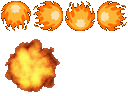
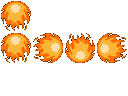
Portes, Arc à flèche

diff --git a/src/model/gameElements/Player.java b/src/model/gameElements/Player.java
@@ -1,5 +1,6 @@
 package model.gameElements;
 
+import java.awt.Point;
 import java.awt.Rectangle;
 import java.util.ArrayList;
 
@@ -46,7 +47,10 @@ public class Player extends Actor implements Runnable{
 	
 	public void move(){
 		super.move();
-		Tile currentTile=getGame().getCurrentMap().getTileAt((int)((getX()+getHitbox().getCenterX())/20), (int)((getY() + getHitbox().getMaxY()))/20);
+		Point footPosition = getFootPosition();
+		int x = (int)Math.floor(footPosition.getX()/20);
+		int y = (int)Math.floor(footPosition.getY()/20);
+		Tile currentTile=getGame().getCurrentMap().getTileAt(x,y);
 		if (currentTile.getIsPoisonous()){
 			currentTile.envenom();
 		}
@@ -137,11 +141,6 @@ public class Player extends Actor implements Runnable{
 	}
 
 	public void equipHandWeapon(HandWeapon weapon) {
-		/*
-		 * on consid�re que le joueur a une valeur de degats de base et que le
-		 * fait d'equiper une arme augmente simplement la valeur de degats du
-		 * joueur. MAIS IL FAUDRA TENIR COMPTE DES TYPES D'ARMES.
-		 */
 		this.handWeapon = weapon;
 		
 		setDamage(damage + weapon.getDamage());
@@ -178,15 +177,7 @@ public class Player extends Actor implements Runnable{
 
 	public void die() {
 		setHealth(0);
-		//Tomb tomb = new Tomb("Tombe de " + name, position, inventory, experience);
-		// resetPosition(debut du niveau)
 	}
-//
-//	public void collect(CollectableObject object) {
-//		inventory.setInInventory(object);
-//	}
-
-	// public void open(){}
 	
 	public void drinkPotion(Potion potion) {
 		if (potion instanceof HealthPotion) {
@@ -210,12 +201,39 @@ public class Player extends Actor implements Runnable{
 		}
 	}
 	
+	public void tryInteraction() {
+		collect();
+		openDoors();
+	}
+	
 	public void collect(){
 		CollectableObject res=getGame().getCurrentMap().detectAnObject(this.getX(),this.getY(), this.getHitbox());
 		if (res!=null && inventory.isFull()==false){
 			inventory.setInInventory(res);
 			getGame().getCurrentMap().removeCollectableObject(res);
 		}
+	}
+	
+	public void openDoors() {
+		Tile facingTile = null;
+		Tile currentTile;
+		Point footPosition = getFootPosition();
+		int x = (int)Math.floor(footPosition.getX()/20);
+		int y = (int)Math.floor(footPosition.getY()/20);
+		
+		currentTile = getGame().getCurrentMap().getTileAt(x, y);		
+		if(getOrientation()=="up") {
+			facingTile = getGame().getCurrentMap().getTileAt(x, y-1);
+		} else if(getOrientation()=="down") {
+			facingTile = getGame().getCurrentMap().getTileAt(x, y+1);
+		} else if(getOrientation()=="left") {
+			facingTile = getGame().getCurrentMap().getTileAt(x-1, y);
+		} else if (getOrientation()=="right") {
+			facingTile = getGame().getCurrentMap().getTileAt(x+1, y);
+		}
+		
+		if(facingTile!=null){facingTile.doorOpen();};
+		currentTile.doorOpen();
 	}
 
 	@Override

diff --git a/src/model/map/RandomMap.java b/src/model/map/RandomMap.java
@@ -7,7 +7,9 @@ import java.util.Random;
 
 import model.Game;
 import model.gameElements.Axe;
+import model.gameElements.Bow;
 import model.gameElements.Monster;
+import model.graphicElements.Door;
 import model.graphicElements.Floor;
 import model.graphicElements.Tile;
 import model.graphicElements.TileLibrary;
@@ -31,10 +33,11 @@ public class RandomMap extends Map {
 		
 		generateMaze(0, rooms, holes);
 		renderMaze(rooms, holes);
-		setTileAt(5,5, new Tile(TileLibrary.POISON_TRAP, "poisonous tile", game));
+		initDoors();
+		initTraps();
 		System.out.println("new Level");
 	}
-	
+
 	public void initActorsAndObjects() {
 		initMonsters();
 		initGameObjects();
@@ -60,8 +63,11 @@ public class RandomMap extends Map {
 	public void initGameObjects(){
 		Axe axe= new Axe("hache", 180, 200, getGame(), getGame().getPlayer());
 		addCollectableObject(axe);
-		axe.setX(180);
-		axe.setY(200);
+		
+		Bow bow = new Bow(getGame(),getGame().getPlayer());
+		bow.setX(300);
+		bow.setY(300);
+		addCollectableObject(bow);
 	}
 	
 
@@ -167,6 +173,33 @@ public class RandomMap extends Map {
 				}
 			}
 		}
-	}	
+	}
+	
+	private void initDoors() {
+		Door door1 = new Door(getGame());
+		door1.doorOpen();
+		Door door2 = new Door(getGame());
+		setTileAt(2,0,door1);
+		setTileAt(getLevelWidth()-3, getLevelHeight()-1, door2);
+		setTileAt(1,0,new Wall(TileLibrary.WALL_H_RIGHT, getGame()));
+		setTileAt(3,0,new Wall(TileLibrary.WALL_H_LEFT, getGame()));
+		setTileAt(getLevelWidth()-4, getLevelHeight()-1,new Wall(TileLibrary.WALL_H_RIGHT, getGame()));
+		setTileAt(getLevelWidth()-2, getLevelHeight()-1,new Wall(TileLibrary.WALL_H_LEFT, getGame()));
+	}
+	
+	private void initTraps() {
+		Random rnd = new Random();
+		for(int i=0;i<6;i++) {
+			int x = rnd.nextInt(getLevelWidth()-2)+1;
+			int y = rnd.nextInt(getLevelHeight()-2)+1;
+			for(int j=0;j<6;j++) {
+				int nx = x+rnd.nextInt(5)-2;
+				int ny = y+rnd.nextInt(5)-2;			
+				if(getTileAt(nx,ny).getType()=="floor") {;
+					setTileAt(nx,ny,new Tile(TileLibrary.POISON_TRAP, "poisonous tile", getGame()));
+				}
+			}
+		}
+	}
 
 }

diff --git a/src/view/level/LevelPanel.java b/src/view/level/LevelPanel.java
@@ -145,13 +145,13 @@ public class LevelPanel extends JPanel {
 			if(pro.isTravelling()) {
 				String d = pro.getDirection();
 				if(d=="up") {
-					g.drawImage(pro.getImage(), pro.getX(), pro.getY(), pro.getX()+32,pro.getY()+32,0,0,31,31,null);
+					g.drawImage(pro.getImage(), pro.getX(), pro.getY(), pro.getX()+32,pro.getY()+32,0,32,31,63,null);
 				} else if (d=="right") {
-					g.drawImage(pro.getImage(), pro.getX(), pro.getY(), pro.getX()+32,pro.getY()+32,32,0,63,31,null);
+					g.drawImage(pro.getImage(), pro.getX(), pro.getY(), pro.getX()+32,pro.getY()+32,32,32,63,63,null);
 				} else if (d=="down") {
-					g.drawImage(pro.getImage(), pro.getX(), pro.getY(), pro.getX()+32,pro.getY()+32,64,0,95,31,null);
+					g.drawImage(pro.getImage(), pro.getX(), pro.getY(), pro.getX()+32,pro.getY()+32,64,32,95,63,null);
 				} else if (d=="left") {
-					g.drawImage(pro.getImage(), pro.getX(), pro.getY(), pro.getX()+32,pro.getY()+32,96,0,127,31,null);
+					g.drawImage(pro.getImage(), pro.getX(), pro.getY(), pro.getX()+32,pro.getY()+32,96,32,127,63,null);
 				}
 			}
 		}

diff --git a/src/model/graphicElements/Tile.java b/src/model/graphicElements/Tile.java
@@ -7,7 +7,7 @@ public class Tile implements PoisonDamage, Runnable {
 
 	private int[] reference = { 0, 0 };
 	private boolean isWalkable = true; // pour savoir si on peut marcher dessus
-	private boolean isPoisonous;
+	private boolean isPoisonous = false;
 	private String type;
 	private Game game;
 	private Thread tileThread;
@@ -19,7 +19,7 @@ public class Tile implements PoisonDamage, Runnable {
 		reference[0] = ref[0];
 		reference[1] = ref[1];
 		this.type = type;
-		if (reference[0] == 18) {
+		if (reference[0] == TileLibrary.POISON_TRAP[0]) {
 			isPoisonous = true;
 		}
 	}
@@ -67,9 +67,15 @@ public class Tile implements PoisonDamage, Runnable {
 	public int[] getReference() {
 		return reference;
 	}
+	
+	public void setReference(int[] ref) {
+		this.reference = ref;
+	}
 
 	public String getType() {
 		// TODO Auto-generated method stub
 		return type;
 	}
+	
+	public void doorOpen(){}
 }

diff --git a/src/model/gameElements/Bow.java b/src/model/gameElements/Bow.java
@@ -1,0 +1,26 @@
+package model.gameElements;
+
+import java.awt.Rectangle;
+
+import model.Game;
+
+public class Bow extends ThrowableWeapon {
+	
+	private static Rectangle hitbox = new Rectangle(0,0,32,32);
+	private static int damage = 30;
+	private static int bowMana = 5;
+
+	
+	public Bow(Game game, Player attachedPlayer) {
+		super("Fireballs",0, 0, damage, bowMana, "src/model/gameElements/bow.png", hitbox,game,attachedPlayer);
+	}
+	
+	public void attack() {
+		if(enoughMana()) {
+			Player p = getAttachedPlayer();
+			Arrow a = new Arrow(0, 0, p.getOrientation(), getGame(), p);
+			super.attack(a);
+		}
+	}
+	
+}

diff --git a/src/model/gameElements/Arrow.java b/src/model/gameElements/Arrow.java
@@ -1,0 +1,16 @@
+package model.gameElements;
+
+import java.awt.Rectangle;
+
+import model.Game;
+
+public class Arrow extends Projectile {
+	
+	private static int arrowDamage = 30;
+	private static Rectangle arrowHitbox = new Rectangle(8,8,16,16);
+	private static double speed = 8;
+	
+	public Arrow(double x, double y, String direction, Game game, Player attachedPlayer) {
+		super("Arrow", x, y, arrowDamage, direction, speed, "src/model/gameElements/bow.png", arrowHitbox, game, attachedPlayer);
+	}	
+}

diff --git a/src/model/graphicElements/TileLibrary.java b/src/model/graphicElements/TileLibrary.java
@@ -27,8 +27,9 @@ public class TileLibrary {
 	public final static int[] WALL_T_RIGHT = {14,0};
 	public final static int[] WALL_T_BOTTOM = {15,0};
 	public final static int[] WALL_T_UP = {16,0};
-	public final static int[] DOOR_OPEN ={17,0};
-	public final static int[] POISON_TRAP={18,0};
+	public final static int[] DOOR_OPEN ={18,0};
+	public final static int[] DOOR_CLOSED ={17,0};
+	public final static int[] POISON_TRAP={19,0};
 	
 	private static Image tilesImage;
 	

diff --git a/src/model/gameElements/Actor.java b/src/model/gameElements/Actor.java
@@ -1,5 +1,6 @@
 package model.gameElements;
 
+import java.awt.Point;
 import java.awt.Rectangle;
 import java.util.ArrayList;
 
@@ -80,6 +81,14 @@ public class Actor extends GameObject {
 		} else {
 			this.maxHealth = 0;
 		}
+	}
+	
+	public Point getFootPosition() {
+		Point p = new Point();
+		double x = getX()+getHitbox().getCenterX();
+		double y = getY()+getHitbox().getMaxY();
+		p.setLocation(x, y);
+		return p;
 	}
 	
 	public double getSpeed() {

diff --git a/src/model/map/Map.java b/src/model/map/Map.java
@@ -101,7 +101,9 @@ public class Map {
 	}
 	
 	public void setTileAt(int x, int y, Tile tile) {
-		tiles[y][x] = tile;
+		if(x>=0 && y>=0 && x<=getLevelWidth()-1 && y<=getLevelHeight()-1) {
+			tiles[y][x] = tile;
+		}
 	}
 	
 	public Tile getTileAt(int x, int y) {

diff --git a/src/controls/PlayerControls.java b/src/controls/PlayerControls.java
@@ -90,7 +90,7 @@ public class PlayerControls implements KeyListener {
 				player.getInventory().select(5);
 			}
 		} else if(e.getKeyCode()==f){
-			player.collect();
+			player.tryInteraction();
 		} else if (e.getKeyCode()==ctrl){
 			readyToRemove=true;
 		}

diff --git a/src/model/Game.java b/src/model/Game.java
@@ -50,9 +50,7 @@ public class Game {
 	
 	public void initLevel() {
 		level1= new RandomMap(this);
-		//level1.setGame(this);
 		currentMap = level1;
-		
 	}
 	
 	public void initGraphics() {
